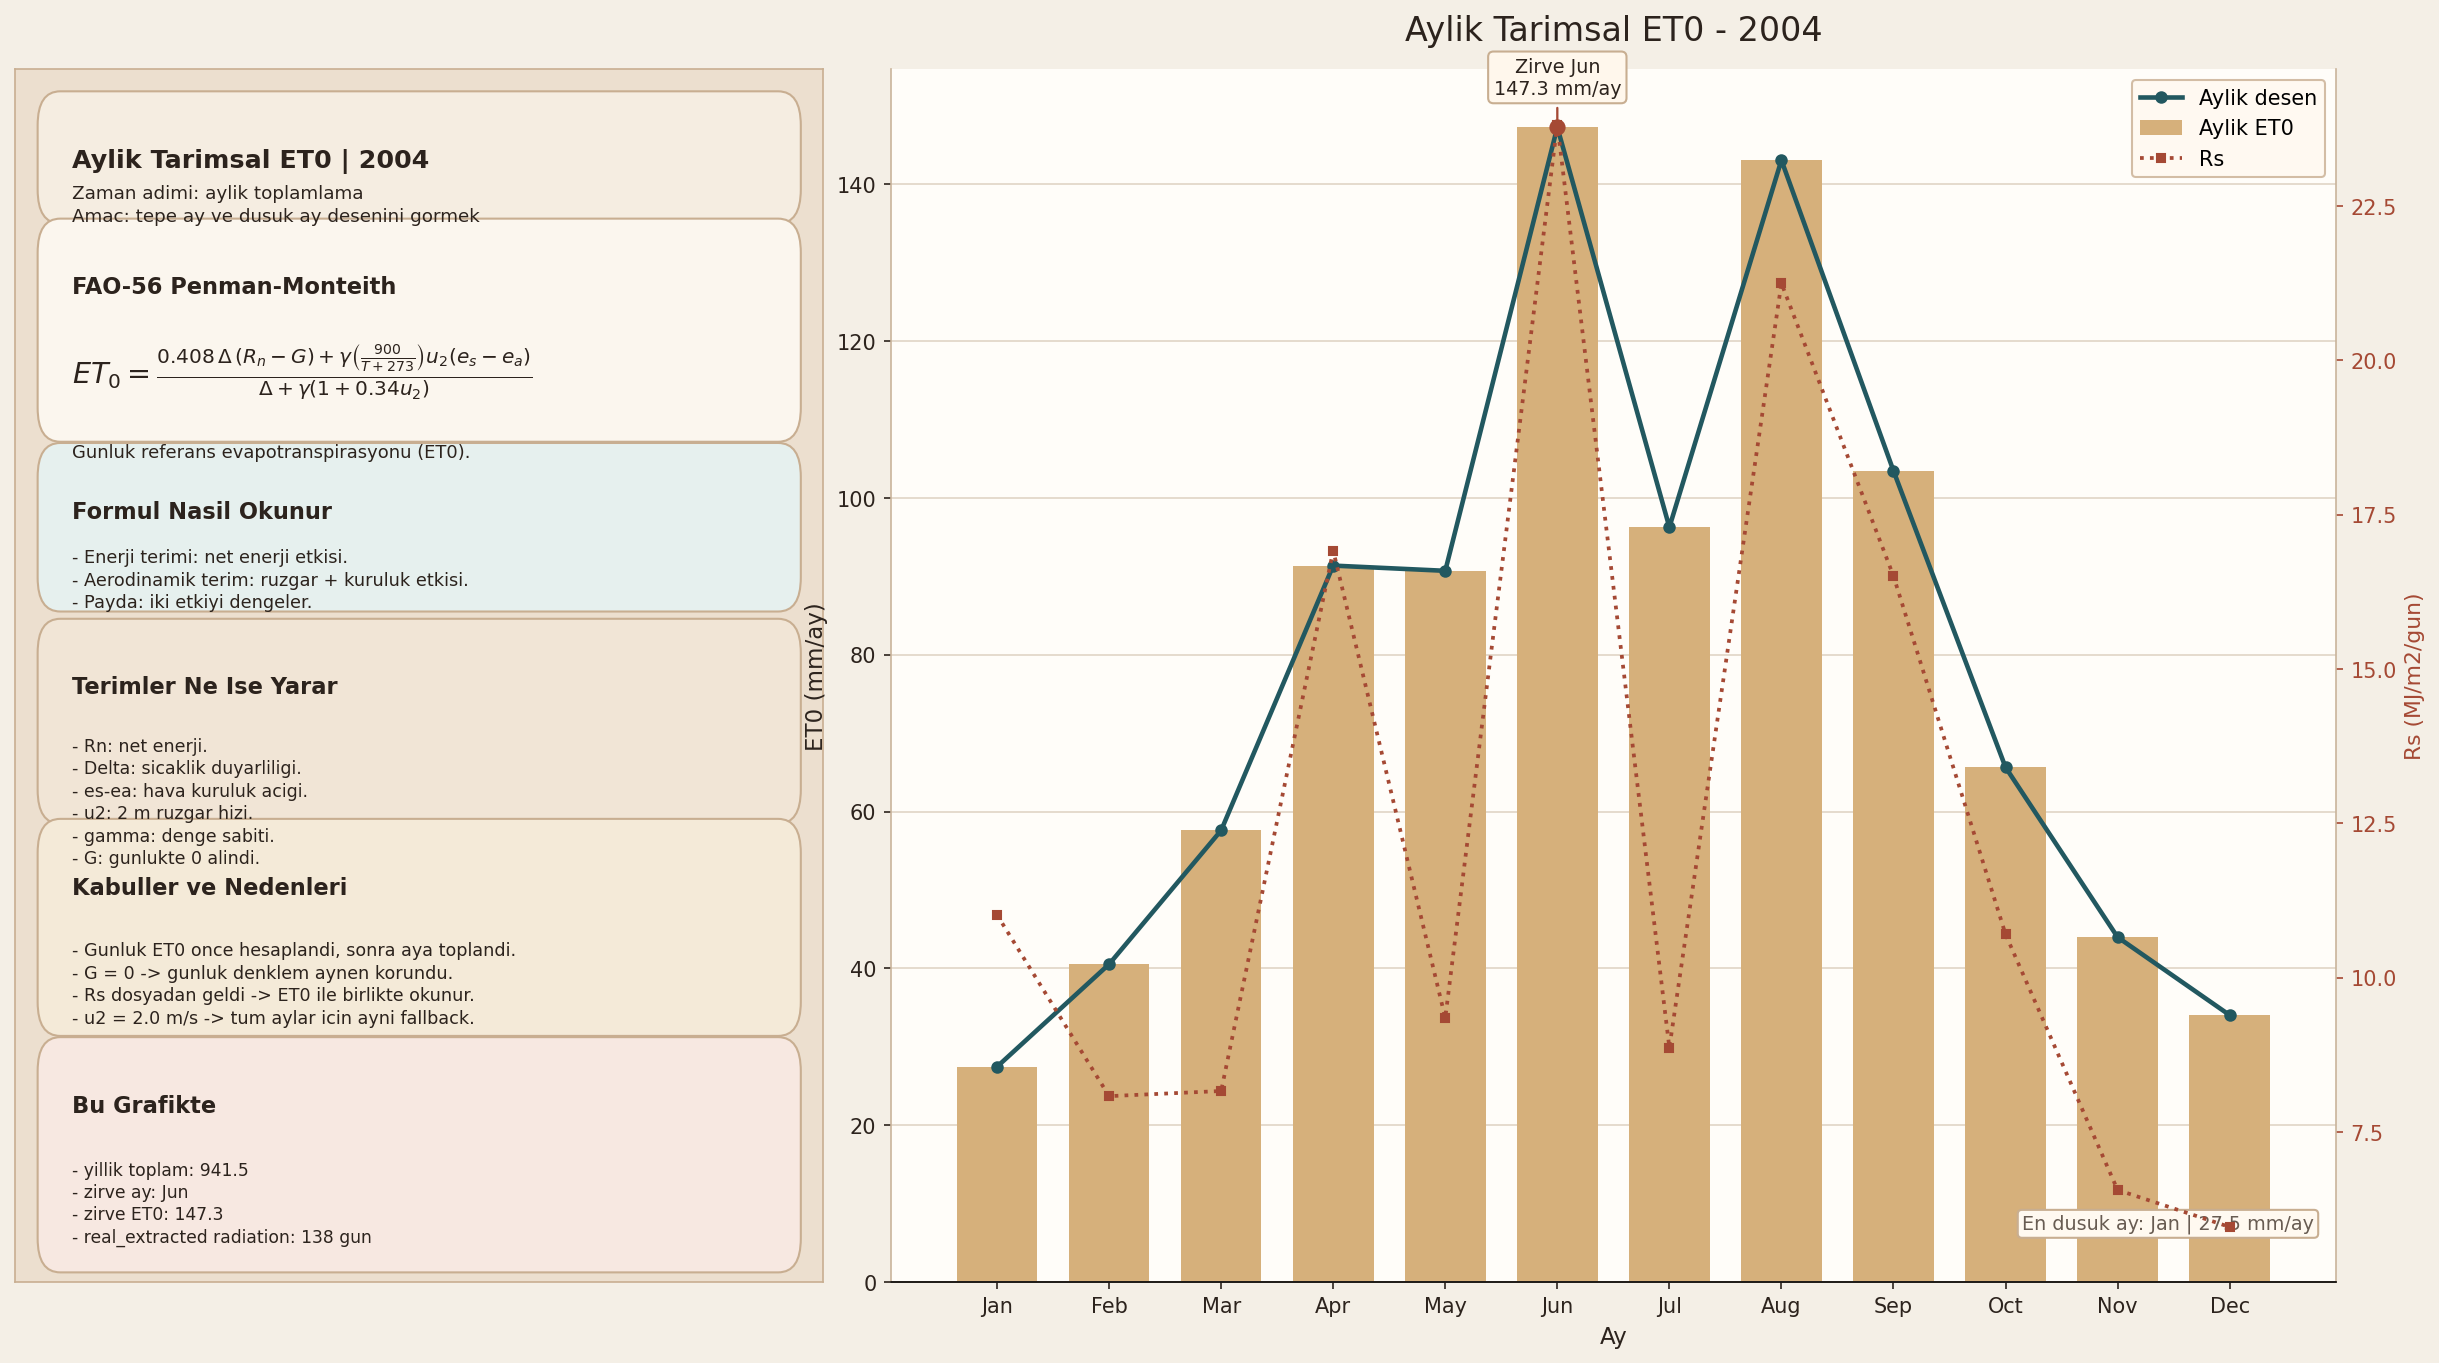
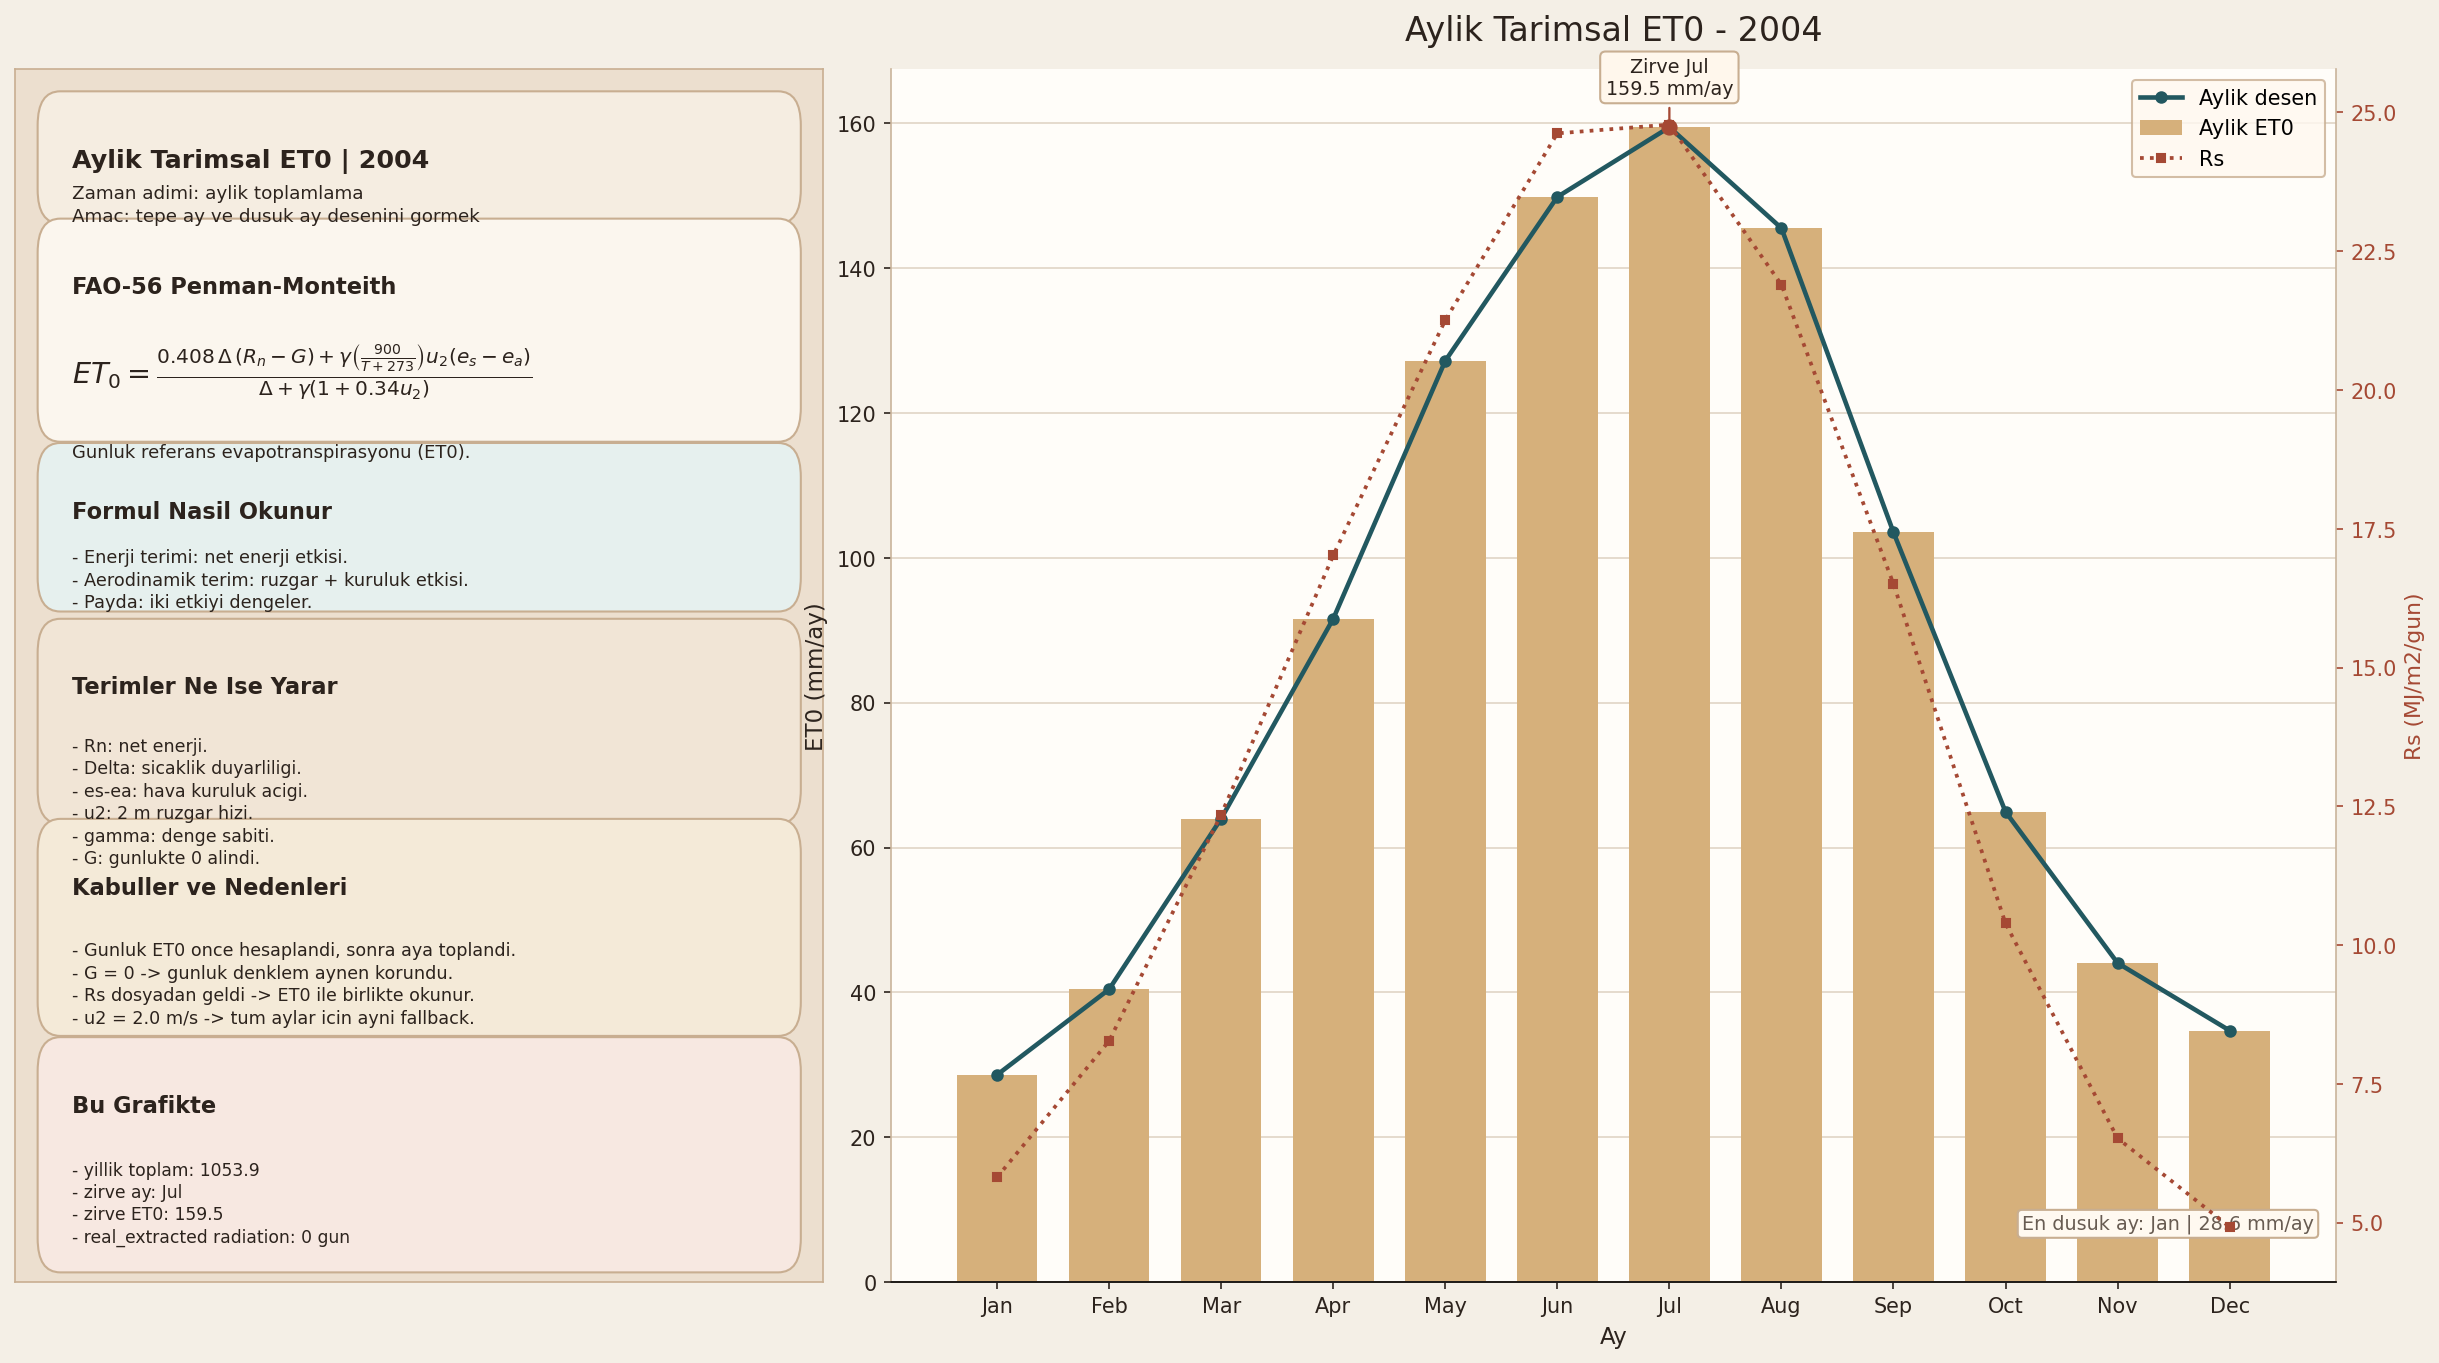
Update reports and ET0 assets

diff --git a/assets/data/sim_coeffs.js b/assets/data/sim_coeffs.js
@@ -1,1 +1,1 @@
-window.SIM_COEFFS = {"a_rain": 0.00042667450650405597, "b_et0": -0.0008327419886623933, "c_use": -3.133258961616774e-08, "intercept": 0.1177679869399717, "mean_rain": 72.1447770700637, "mean_et0": 76.2069996663978, "mean_use_monthly": 2740798.183078863};
+window.SIM_COEFFS = {"a_rain": 0.0004266745065013985, "b_et0": -0.0008327419886659707, "c_use": -3.133258961619399e-08, "intercept": 0.11776798693997186, "mean_rain": 72.1447770700637, "mean_et0": 76.2069996663978, "mean_use_monthly": 2740798.183078863};

diff --git a/README.md b/README.md
@@ -1,0 +1,74 @@
+# İstanbul Baraj Projeksiyonu — Web Site
+
+Bu repo, İstanbul baraj doluluk projeksiyonu çalışmasının **statik web sunumunu** içerir.
+
+## İçerik
+- `index.html`, `styles.css`: Tek sayfalık sunum
+- `assets/docs/`: PDF raporlar
+- `assets/et0/`: ET0 açıklama görselleri ve raporları
+- `assets/img/`: Model kartları ve projeksiyon görselleri
+- `assets/data/`: Sunumda kullanılan JSON/CSV veri parçaları
+
+## Yerelde açma
+Tarayıcıda doğrudan:
+- `index.html` dosyasını çift tıklayabilirsin
+
+Veya basit bir statik sunucu:
+```bash
+python -m http.server 8000
+```
+Ardından `http://localhost:8000`.
+
+## Raporları/ET0 paketini yeniden üretme
+Bu repo **çıktı (artifact) deposudur**. Yeniden üretim için ana proje dizininde (örnek: `/Users/yasinkaya/Hackhaton`) şu adımlar kullanılır:
+
+### PDF raporlar
+```bash
+python scripts/build_istanbul_current_status_pdf.py
+python scripts/build_istanbul_current_status_detailed_pdf.py
+# Hackathon final raporu: bağımlı pipeline verileri gerekir
+python scripts/build_hackathon_final_pdf_report.py
+```
+
+### ET0 paket (gerçek radyasyon)
+Gerekli girdiler üretildikten sonra:
+```bash
+python scripts/build_es_ea_newdata_csv.py \
+  --temp-xlsx "/Users/yasinkaya/Hackhaton/new data/Veriler_H-3/Sçcaklçk/Uzunyçl-Max-Min-Ort-orj.xlsx" \
+  --humidity-xlsx "/Users/yasinkaya/Hackhaton/new data/Veriler_H-3/Nem/1911-2022-Nem.xlsx" \
+  --auto-table1 "/Users/yasinkaya/Hackhaton/new data/Veriler_H-3/Otomatik òstasyon/CR800Series_Table1.dat" \
+  --auto-table2 "/Users/yasinkaya/Hackhaton/new data/Veriler_H-3/Otomatik òstasyon/CR800Series_Table2.dat"
+
+python scripts/build_complete_solar_dataset.py
+python scripts/build_tarim_et0_real_radiation_package.py
+python scripts/build_et0_formula_card.py
+python scripts/build_one_year_explained_et0_charts.py --year 2004
+python scripts/build_et0_trend_robust_chart.py
+python scripts/build_et0_multiscale_charts.py
+```
+
+### Güncel dosyaları bu repo’ya kopyalama
+```bash
+# PDF raporlar
+cp output/pdf/istanbul_baraj_guncel_durum_ozet_raporu_2026_03_18.pdf baraj_web/assets/docs/
+cp output/pdf/istanbul_baraj_guncel_durum_detayli_raporu.pdf baraj_web/assets/docs/
+cp output/pdf/Hackhaton_Final_Raporu_2026-03-05.pdf baraj_web/assets/docs/
+
+# ET0 görselleri + raporları
+cp output/tarim_et0_real_radiation/charts/*.png baraj_web/assets/et0/
+cp output/tarim_et0_real_radiation/reports/*.json baraj_web/assets/et0/reports/
+cp output/tarim_et0_real_radiation/reports/*.md baraj_web/assets/et0/reports/
+```
+
+## Veri Kaynakları (özet)
+- İBB/İSKİ baraj doluluk ve havza yağışı
+- İBB tüketim verileri
+- Kandilli uzun dönem iklim serileri
+- İklim projeksiyonları (2026–2040)
+
+## Notlar
+- Bu repo “sunum” amaçlıdır; model kodu ve veri işleme hatları ana projededir.
+- Hackathon final raporu, **extreme event pipeline** verilerine bağlıdır. Bu veri üretilmezse rapor yeniden oluşturulamaz.
+
+## Lisans
+İçerikler proje içi kullanım içindir.

diff --git a/assets/et0/reports/tarim_et0_real_radiation_report.md b/assets/et0/reports/tarim_et0_real_radiation_report.md
@@ -3,10 +3,10 @@
 ## Kullandigim Radyasyon Dosyasi
 
 - Dosya: `/Users/yasinkaya/Hackhaton/output/universal_datasets/daily_solar_radiation_complete.csv`
-- Gunluk veri kapsami: `1990-01-01` -> `2004-12-31`
-- Model kapsami: `1995-01-01` -> `2004-12-01`
-- `real_extracted` gun: `906`
-- `synthetic` gun: `2841`
+- Gunluk veri kapsami: `1975-01-01` -> `2004-12-31`
+- Model kapsami: `1975-01-01` -> `2004-12-01`
+- `real_extracted` gun: `0`
+- `synthetic` gun: `10957`
 
 Bu dosya kullanicinin verdigi radyasyon girdisi olarak dogrudan ET0 hesabina sokuldu.
 Not: dosya icindeki `data_source` kolonu korunmustur; yani hangi gunun gercek cikarim, hangisinin sentetik doldurma oldugu tabloda goruluyor.
@@ -24,13 +24,13 @@ Not: dosya icindeki `data_source` kolonu korunmustur; yani hangi gunun gercek ci
 
 ## Temel Bulgular
 
-- Ortalama yillik ET0: `919.1 mm/yil`
-- Yillik ET0 trendi: `+59.2 mm/10y`
-- Min yillik ET0: `857.5 mm/yil`
-- Max yillik ET0: `1029.7 mm/yil`
-- Baz donem (1995-2004) ortalama yillik ET0: `919.1 mm/yil`
-- 2031-2035 quant oengoru ortalama yillik ET0: `923.4 mm/yil`
-- Beklenen fark: `+4.3 mm/yil`
+- Ortalama yillik ET0: `945.9 mm/yil`
+- Yillik ET0 trendi: `+25.1 mm/10y`
+- Min yillik ET0: `882.6 mm/yil`
+- Max yillik ET0: `1071.1 mm/yil`
+- Baz donem (1995-2004) ortalama yillik ET0: `970.6 mm/yil`
+- 2031-2035 quant oengoru ortalama yillik ET0: `1030.2 mm/yil`
+- Beklenen fark: `+59.6 mm/yil`
 
 ## Uretilen Dosyalar
 
